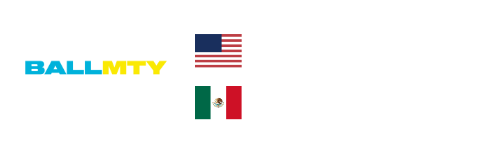
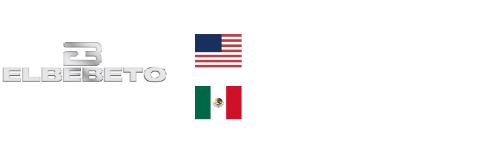
cambios

Changed region(s): [[0.0, 0.2778, 0.33, 0.5833]]

diff --git a/index.html b/index.html
@@ -1,7 +1,7 @@
 <!DOCTYPE html><html lang="en-US" class="no-js"><head><link media="all" href="css/autoptimize_5331a4c1ee888757bae4b8dc75ed1122.css" rel="stylesheet">
     <meta charset="UTF-8">
     <meta name="viewport" content="width=device-width, initial-scale=1">
-    <title>3BALLMTY</title>
+    <title>EL BEBETO</title>
     <link rel="profile" href="http://gmpg.org/xfn/11">
         <script async="" src="js/gtm.js"></script><script type="application/javascript">
 window.dataLayer = window.dataLayer || []
@@ -286,7 +286,7 @@ j=d.createElement(s),dl=l!='dataLayer'?'&l='+l:'';j.async=true;j.src=
 
 
 <style id="wp-dynamic-css-grand-royal-layout-multipage-header-skin-styles-inline-css" type="text/css">
-  .site-header, .site-header .slide-menu-gr-container { background-color: #27004d; }  @media only screen and (min-width: 50em){ .site-header.site-header-transparent .slide-menu-gr-container { background-color: transparent; } }  .site-header.site-header-transparent #slide-menu-gr.docked{ background-color: #ffffff; }  .site-header .slide-menu-gr-container { font-family: Montserrat; font-weight: 700; }  .site-header #menu-main a { color: #ffffff; fill: #f6402d; } .site-header #menu-social a { color: #FFFFFF; fill: #FFFFFF; } .site-header #menu-main a:hover { color: #000000; fill: #000000; } .site-header #menu-social a:hover { color: #f6402d; fill: #f6402d; }    .site-header #menu-main .menu-item-social a { fill: #FFFFFF; } .site-header #menu-main .menu-item-social a svg.h, .site-header #menu-main .menu-item-social a img { height: 20px; max-width: 20px; } .site-header #menu-main .menu-item-social a svg.w { width: 20px; max-height: 20px; }  .menu-social-container li, .menu-social-container li a, .menu-social-container li a .icon, .umggr-fixed-social-menu-container li, .umggr-fixed-social-menu-container li a, .umggr-fixed-social-menu-container li .icon { font-size: 20px; color: #FFFFFF; } .umggr-fixed-social-menu-container.umggr-fixed-social-menu-top-left   .umggr-fixed-social-menu   li.community   .community-container   a.community-members-phone-number, .umggr-fixed-social-menu-container.umggr-fixed-social-menu-bottom-left   .umggr-fixed-social-menu   li.community   .community-container   a.community-members-phone-number, .umggr-fixed-social-menu-container.umggr-fixed-social-menu-middle-left   .umggr-fixed-social-menu   li.community   .community-container   a.community-members-phone-number { left: 20px; } .umggr-fixed-social-menu-container.umggr-fixed-social-menu-top-right   .umggr-fixed-social-menu   li.community   .community-container   a.community-members-phone-number, .umggr-fixed-social-menu-container.umggr-fixed-social-menu-bottom-right   .umggr-fixed-social-menu   li.community   .community-container   a.community-members-phone-number, .umggr-fixed-social-menu-container.umggr-fixed-social-menu-middle-right   .umggr-fixed-social-menu   li.community   .community-container   a.community-members-phone-number { right: 20px; }  .site-header #menu-main .active-page a { color: #000000; }  .site-header .newsletter-header svg { fill: #FFFFFF; } .site-header .mobile-nav-header span { background-color: #ffffff; }  @media screen and (min-width: 800px) { .site-header.site-header-transparent #menu-main a { color: #ffffff; }   .site-header.site-header-transparent #menu-main a:hover { color: #000000; }    .site-header.site-header-transparent #menu-main .active-page a { color: #000000; } }  #slide-menu-gr-peakaboo .slide-menu-gr-child, #slide-menu-gr-filter .slide-menu-gr-filter-toggle, #slide-menu-gr-filter .slide-menu-gr-peakaboo { background-color: #515151; } #slide-menu-gr-peakaboo .slide-menu-gr-child.slide-menu-transparent { background-color: transparent; }  #slide-menu-gr-peakaboo .slide-menu-gr-child .slide-menu-gr-item a, #slide-menu-gr-filter .slide-menu-gr-peakaboo .slide-menu-gr-item a { color: #FFFFFF; } #slide-menu-gr-peakaboo .slide-menu-gr-child .slide-menu-gr-item a svg, #slide-menu-gr-filter .slide-menu-gr-peakaboo .slide-menu-gr-item a svg { fill: #FFFFFF; } #slide-menu-gr-peakaboo .slide-menu-gr-item button.ae-follow-spotify-button { background-color: #FFFFFF; }  @media screen and (min-width: 800px) { #slide-menu-gr-peakaboo     .slide-menu-gr-child.slide-menu-transparent     .slide-menu-gr-item     a,   #slide-menu-gr-filter     .slide-menu-gr-peakaboo     .slide-menu-transparent     .slide-menu-gr-item     a { color: #ffffff; }   #slide-menu-gr-peakaboo     .slide-menu-gr-child.slide-menu-transparent     .slide-menu-gr-item     a svg,   #slide-menu-gr-filter     .slide-menu-gr-peakaboo     .slide-menu-transparent     .slide-menu-gr-item       a svg { fill: #ffffff; } }  #slide-menu-gr-filter .slide-menu-gr-filter-toggle { color: #FFFFFF; background-color: #000000; }  #slide-menu-gr-filter .slide-menu-gr-filter-toggle:hover { color: #515151; } #slide-menu-gr-peakaboo .slide-menu-gr-child .slide-menu-gr-item a, #slide-menu-gr-filter .slide-menu-gr-peakaboo .slide-menu-gr-item a { color: #FFFFFF; }  #slide-menu-gr-peakaboo .slide-menu-gr-child .slide-menu-gr-item a:hover, #slide-menu-gr-filter .slide-menu-gr-peakaboo .slide-menu-gr-item a:hover { opacity: 0.6; filter: alpha(opacity=60); color: #f6402d; }  .slide-menu-gr-container .slide-menu-gr-parent .slide-menu-gr-item a:hover { color: #FFFFFF; } .site-header-transparent   .slide-menu-gr-container   .slide-menu-gr-parent   .slide-menu-gr-item   a:hover { color: #FFFFFF; } .slide-menu-gr-container   .slide-menu-gr-parent   .slide-menu-gr-item.with-children   .slide-menu-gr-child   .slide-menu-gr-item   a { color: #FFFFFF; opacity: 0.6; filter: alpha(opacity=60); }  @media screen and (min-width: 800px) { .site-header-transparent     .slide-menu-gr-container     .slide-menu-gr-parent     .slide-menu-gr-item     a:hover,   .slide-menu-gr-container     .slide-menu-gr-parent     .slide-menu-gr-item.with-children     .slide-menu-gr-child.slide-menu-transparent     .slide-menu-gr-item     a { color: #ffffff; }   .slide-menu-gr-container     .slide-menu-gr-parent     .slide-menu-gr-item.with-children     .slide-menu-gr-child     .slide-menu-gr-item     a { color: #f6402d; opacity: 1; filter: alpha(opacity=100); } }  #slide-menu-gr-peakaboo   .slide-menu-gr-child.slide-menu-transparent   .slide-menu-gr-item   a:hover, #slide-menu-gr-filter   .slide-menu-gr-peakaboo   .slide-menu-transparent   .slide-menu-gr-item   a:hover { color: #000000; opacity: 1; filter: alpha(opacity=100); }  .page-navigation.bar .back-button { background-color: #000000; } .page-navigation.bar .back-button polyline { stroke: #FFFFFF; }  .site-header .header-mailing-list .ae-cform-container a { background-color: #515151; color: #FFFFFF; }  .site-header .header-mailing-list .ae-cform-container a:hover { color: #FFFFFF; opacity: 0.6; filter: alpha(opacity=60); } #umggr-loader { background-color: #000000; } #umggr-splash { background-color: #000000; } .close-modal, .splash-mute-unmute { background-color: #515151; } .splash-mute-unmute a { color: #FFFFFF; }    
+  .site-header, .site-header .slide-menu-gr-container { background-color: #d5441a; }  @media only screen and (min-width: 50em){ .site-header.site-header-transparent .slide-menu-gr-container { background-color: transparent; } }  .site-header.site-header-transparent #slide-menu-gr.docked{ background-color: #ffffff; }  .site-header .slide-menu-gr-container { font-family: Montserrat; font-weight: 700; }  .site-header #menu-main a { color: #ffffff; fill: #f6402d; } .site-header #menu-social a { color: #FFFFFF; fill: #FFFFFF; } .site-header #menu-main a:hover { color: #000000; fill: #000000; } .site-header #menu-social a:hover { color: #f6402d; fill: #f6402d; }    .site-header #menu-main .menu-item-social a { fill: #FFFFFF; } .site-header #menu-main .menu-item-social a svg.h, .site-header #menu-main .menu-item-social a img { height: 20px; max-width: 20px; } .site-header #menu-main .menu-item-social a svg.w { width: 20px; max-height: 20px; }  .menu-social-container li, .menu-social-container li a, .menu-social-container li a .icon, .umggr-fixed-social-menu-container li, .umggr-fixed-social-menu-container li a, .umggr-fixed-social-menu-container li .icon { font-size: 20px; color: #FFFFFF; } .umggr-fixed-social-menu-container.umggr-fixed-social-menu-top-left   .umggr-fixed-social-menu   li.community   .community-container   a.community-members-phone-number, .umggr-fixed-social-menu-container.umggr-fixed-social-menu-bottom-left   .umggr-fixed-social-menu   li.community   .community-container   a.community-members-phone-number, .umggr-fixed-social-menu-container.umggr-fixed-social-menu-middle-left   .umggr-fixed-social-menu   li.community   .community-container   a.community-members-phone-number { left: 20px; } .umggr-fixed-social-menu-container.umggr-fixed-social-menu-top-right   .umggr-fixed-social-menu   li.community   .community-container   a.community-members-phone-number, .umggr-fixed-social-menu-container.umggr-fixed-social-menu-bottom-right   .umggr-fixed-social-menu   li.community   .community-container   a.community-members-phone-number, .umggr-fixed-social-menu-container.umggr-fixed-social-menu-middle-right   .umggr-fixed-social-menu   li.community   .community-container   a.community-members-phone-number { right: 20px; }  .site-header #menu-main .active-page a { color: #000000; }  .site-header .newsletter-header svg { fill: #FFFFFF; } .site-header .mobile-nav-header span { background-color: #ffffff; }  @media screen and (min-width: 800px) { .site-header.site-header-transparent #menu-main a { color: #ffffff; }   .site-header.site-header-transparent #menu-main a:hover { color: #000000; }    .site-header.site-header-transparent #menu-main .active-page a { color: #000000; } }  #slide-menu-gr-peakaboo .slide-menu-gr-child, #slide-menu-gr-filter .slide-menu-gr-filter-toggle, #slide-menu-gr-filter .slide-menu-gr-peakaboo { background-color: #515151; } #slide-menu-gr-peakaboo .slide-menu-gr-child.slide-menu-transparent { background-color: transparent; }  #slide-menu-gr-peakaboo .slide-menu-gr-child .slide-menu-gr-item a, #slide-menu-gr-filter .slide-menu-gr-peakaboo .slide-menu-gr-item a { color: #FFFFFF; } #slide-menu-gr-peakaboo .slide-menu-gr-child .slide-menu-gr-item a svg, #slide-menu-gr-filter .slide-menu-gr-peakaboo .slide-menu-gr-item a svg { fill: #FFFFFF; } #slide-menu-gr-peakaboo .slide-menu-gr-item button.ae-follow-spotify-button { background-color: #FFFFFF; }  @media screen and (min-width: 800px) { #slide-menu-gr-peakaboo     .slide-menu-gr-child.slide-menu-transparent     .slide-menu-gr-item     a,   #slide-menu-gr-filter     .slide-menu-gr-peakaboo     .slide-menu-transparent     .slide-menu-gr-item     a { color: #ffffff; }   #slide-menu-gr-peakaboo     .slide-menu-gr-child.slide-menu-transparent     .slide-menu-gr-item     a svg,   #slide-menu-gr-filter     .slide-menu-gr-peakaboo     .slide-menu-transparent     .slide-menu-gr-item       a svg { fill: #ffffff; } }  #slide-menu-gr-filter .slide-menu-gr-filter-toggle { color: #FFFFFF; background-color: #000000; }  #slide-menu-gr-filter .slide-menu-gr-filter-toggle:hover { color: #515151; } #slide-menu-gr-peakaboo .slide-menu-gr-child .slide-menu-gr-item a, #slide-menu-gr-filter .slide-menu-gr-peakaboo .slide-menu-gr-item a { color: #FFFFFF; }  #slide-menu-gr-peakaboo .slide-menu-gr-child .slide-menu-gr-item a:hover, #slide-menu-gr-filter .slide-menu-gr-peakaboo .slide-menu-gr-item a:hover { opacity: 0.6; filter: alpha(opacity=60); color: #f6402d; }  .slide-menu-gr-container .slide-menu-gr-parent .slide-menu-gr-item a:hover { color: #FFFFFF; } .site-header-transparent   .slide-menu-gr-container   .slide-menu-gr-parent   .slide-menu-gr-item   a:hover { color: #FFFFFF; } .slide-menu-gr-container   .slide-menu-gr-parent   .slide-menu-gr-item.with-children   .slide-menu-gr-child   .slide-menu-gr-item   a { color: #FFFFFF; opacity: 0.6; filter: alpha(opacity=60); }  @media screen and (min-width: 800px) { .site-header-transparent     .slide-menu-gr-container     .slide-menu-gr-parent     .slide-menu-gr-item     a:hover,   .slide-menu-gr-container     .slide-menu-gr-parent     .slide-menu-gr-item.with-children     .slide-menu-gr-child.slide-menu-transparent     .slide-menu-gr-item     a { color: #ffffff; }   .slide-menu-gr-container     .slide-menu-gr-parent     .slide-menu-gr-item.with-children     .slide-menu-gr-child     .slide-menu-gr-item     a { color: #f6402d; opacity: 1; filter: alpha(opacity=100); } }  #slide-menu-gr-peakaboo   .slide-menu-gr-child.slide-menu-transparent   .slide-menu-gr-item   a:hover, #slide-menu-gr-filter   .slide-menu-gr-peakaboo   .slide-menu-transparent   .slide-menu-gr-item   a:hover { color: #000000; opacity: 1; filter: alpha(opacity=100); }  .page-navigation.bar .back-button { background-color: #000000; } .page-navigation.bar .back-button polyline { stroke: #FFFFFF; }  .site-header .header-mailing-list .ae-cform-container a { background-color: #515151; color: #FFFFFF; }  .site-header .header-mailing-list .ae-cform-container a:hover { color: #FFFFFF; opacity: 0.6; filter: alpha(opacity=60); } #umggr-loader { background-color: #000000; } #umggr-splash { background-color: #000000; } .close-modal, .splash-mute-unmute { background-color: #515151; } .splash-mute-unmute a { color: #FFFFFF; }    
 </style>
 <style id="wp-dynamic-css-grand-royal-layout-multipage-footer-skin-styles-inline-css" type="text/css">
   #site-footer .footer-links { background-color: #00000000; color: #ffffff; }  #site-footer .footer-legal { background-color: rgba(238,238,238,0); }  #site-footer .footer-legal a { color: #ffffff; }  #site-footer .footer-legal a:hover { opacity: 0.6; filter: alpha(opacity=60); color: #ffffff; }  #site-footer .footer-social-menu a { color: #ffffff; fill: #ffffff; } #site-footer .footer-social-menu button.ae-follow-spotify-button { background-color: #ffffff; } #site-footer .footer-social-menu a svg .background { fill: #000000; }  #site-footer .footer-social-menu a:hover { color: #f6402d; fill: #f6402d; } #site-footer .footer-social-menu button.ae-follow-spotify-button { background-color: #FFFFFF; } #site-footer .footer-social-menu button.ae-follow-spotify-button:hover { background-color: #f6402d; }  #site-footer .footer-social-menu li svg.h { height: 20px; max-width: 20px; } #site-footer .footer-social-menu li svg.w { width: 20px; max-height: 20px; } #site-footer .footer-social-menu li .icon.fa { font-size: 20px; } #site-footer button.ae-follow-spotify-button { background-color: #FFFFFF; }  #site-footer .footer-social-menu button.ae-follow-spotify-button { background-color: #FFFFFF; } #site-footer .footer-social-menu button.ae-follow-spotify-button:hover { background-color: #FFFFFF; }  #site-footer .footer-links .ae-cform-container { color: #ffffff; }  #site-footer .footer-links .ae-cform-container a { background-color: #515151; color: #FFFFFF; }  #site-footer .footer-links .ae-cform-container a:hover { color: #FFFFFF; opacity: 0.6; filter: alpha(opacity=60); }  #site-footer .mobile-spacer { background-color: #000000; }  #site-footer [id^="menu-social"] .menu-item a { color: #FFFFFF; fill: #FFFFFF; }  #site-footer [id^="menu-social"] .menu-item a:hover { color: #f6402d; fill: #f6402d; }  #site-footer [id^="menu-social"] a .icon.fa { color: #FFFFFF; fill: #FFFFFF; }  #site-footer [id^="menu-social"] a .icon.fa:hover { color: #f6402d; fill: #f6402d; }  #docked-menu-gr { background-color: #515151; } #docked-menu-gr ul li svg { fill: #FFFFFF; }   
@@ -336,17 +336,13 @@ var UMGGR_Deeplink_Module = {};
 /* ]]> */
 </script>
 <script type="text/javascript" src="js/deeplink.js" id="umggr-deeplink-js"></script>
-<script type="text/javascript" id="umggr-cookie-positioner-js-extra">
+
 /* <![CDATA[ */
-var UMGGR_Cookie_Positioner_Module = {};
 /* ]]> */
 </script>
-<script type="text/javascript" src="js/cookie-positioner.js" id="umggr-cookie-positioner-js"></script>
 <script type="text/javascript" src="js/isotope.pkgd.min.js" id="jqisotope-js"></script>
 <script type="text/javascript" id="umggr-modal-js-js-extra">
-/* <![CDATA[ */
-var UMGGR_Splash_Shortcode = {"is_home":"1","disable_cookies":"1","autoplay_setting":"null","video_format":"mp4"};
-/* ]]> */
+
 </script>
 <script type="text/javascript" src="js/splash.js" id="umggr-modal-js-js"></script>
 <script type="text/javascript" src="js/search.js" id="umggr-search-js"></script>
@@ -384,11 +380,12 @@ var UMGAALWP = {"debug_enabled":"0","plugins":{"ae_connect":true,"umg_ecrm":true
 <!-- -->
 
 <script type="text/javascript">
-    window.dir = 'https://3ballmty.mx/';
-</script><link rel="icon" href="images/ico-umle-150x150.gif" sizes="32x32">
-<link rel="icon" href="images/ico-umle-300x300.gif" sizes="192x192">
-<link rel="apple-touch-icon" href="images/ico-umle-300x300.gif">
-<meta name="msapplication-TileImage" content="https://https://3ballmty.mx///files/2022/09/ico-umle-300x300.gif">
+    window.dir = 'https://elbebeto.com.mx/';
+</script>
+<link rel="apple-touch-icon" sizes="180x180" href="/images/favicon_io/apple-touch-icon.png">
+<link rel="icon" type="image/png" sizes="32x32" href="/images/favicon_io/favicon-32x32.png">
+<link rel="icon" type="image/png" sizes="16x16" href="/images/favicon_io/favicon-16x16.png">
+<link rel="manifest" href="/site.webmanifest">
 </head>
 
 <body class="home page-template-default page page-id-5386 wp-embed-responsive page-home umggr-page5386">
@@ -483,133 +480,102 @@ height='0' width='0' style='display:none;visibility:hidden'></iframe></noscript>
     <section class="promo home" data-headertype="slickslider">
         <div class="slider slider-for">
                 <div class="node-banner">
-                    <div class="banner-image hide-for-small-only dsk" style="background-image: url(images/Banner-3BALLMTY.png   )"></div>
-                        <div class="banner-image show-for-small-only mob" style="background-image: url(images/Banner-3BallMTY-M.png)"></div>
+                    <div class="banner-image hide-for-small-only dsk" style="background-image: url(images/Banner-BEBETO.png)"></div>
+                        <div class="banner-image show-for-small-only mob" style="background-image: url(images/Banner-Bebeto-M.png)"></div>
                 </div>        
         </div>
     </section>
 
-    <section id="biografia" class="roster home">
+    <section class="roster home">
         <div>
             <article class="article-news">
                 <div class="article-content">
                     
                         <div class="spa">
-                            <h1>3BALLMTY</h1>
+                            <h1>El Bebeto</h1>
                             <br>
-                            <h2>Es un colectivo de DJs formado por DJ Otto, Sheeqo BEat y DJ Erik Rincón que vienen a revolucionar con su tribal guarachero la escena musical latina, conquistando escenarios en todo el continente Americano y Europeo.</h2>
-                            <h2>Con sus mezclas electrónicas han trabajado con artistas como Shakira, Paulina Rubio, DaddyYankee, Don Omar, Joweel y Randy, Jking & Maximan, Becky G, Belinda, Gerardo Ortiz, El Bebeto, Bomba Estereo, por mencionar algunos otros.</h2>
-                            <h2>Su álbum "Inténtalo" les dio disco de oro en México, disco de platino en Estados Unidos y Centroamérica.</h2>
-                            <h2>Ahora, su legado se suma al catálogo de Latin Power Music, promwtiendo colaboraciones y éxitos aún por venir.</h2>
-                            <BR></BR>
-                            <h5>PREMIOS Y NOMINACIONES:</h5>
-                            <h2>Su album "inténtalo" les dio:</h2>
-                            <h2><li>Disco de Oro en México</li></h2>
-                            <h2><li>Disco de platino en Estados Unidos</li></h2>
-                            <h2><li>Disco de Platino en Centroamérica</li></h2>
-                            <h2><li>Marzo 2012 Premio ASCAP</li></h2>
-                            <h2><li>Octubre 2012 9 Premios Billboard de la música regional mexicana</li></h2>
-                            <h2><li>Octubre 2012 Premio Bandamax</li></h2>
-                            <h2><li>Noviembre 2012 Premio Latin Grammy</li></h2>
-                            <h2><li>Febrero 2013 2 Premios Lo nuestro</li></h2>
-                            <h2><li>Abril 2013 2 premios billboard a la música</li></h2>
-                            <h2><li>Mayo 2013 3 premios oye!</li></h2>
-                            <h2><li>Octubre 2013 premio billboard de la música regional mexicana</li></h2>
-                            <h2><li>Febrero 2014 premios lo nuestro</li></h2>
+                            
+                            <h2>EL BEBETO nace en Guasave, Sinaloa. En el 2010 graba su primer disco como solista titulado “QUIERO QUE SEAS TÚ”, y participa junto a 3BALLMTY en los temas “Inténtalo” y “De las 12 a las 12”, pertenecientes al disco de los DJ’S. En el 2012 lanza “ESE SOY YO” con el éxito “Lo legal” y en el 2014 “EN TU MIRADA” con: “Lo más interesante”, “No fue necesario” y “No te creas tan importante”. En el 2015, estrena su primer disco con Mariachi titulado “ETERNAMENTE MEXICANO” del que promueve “Cuando tú me besas” y “Besos nuevos”. Este sería el despunte de su carrera dentro de este género. Ha sido nominado al Premio Lo Nuestro. Ganador de varios Premios Billboard de la Música Regional Mexicana. Nominado a Premios Billboard de la Música Latina. Nominado a Premios Bandamax, Premios de la Calle y Latin Grammy.</h2>
+                            <br>
+                            <h2>En Octubre del 2024, “AMOR RANCHERO” es el nuevo álbum de EL BEBETO. Un disco que incluye 12 melodías, algunas de ellas con el acompañamiento de Mariachi, Banda y además del toque sierreño y la incursión del acordeón. Este álbum incluye 2 duetos, uno de ellos junto a Luciano Pereyra en el tema “Si no es muy tarde”, original de Luciano, y “¿Qué vas a decirle?”, al lado del cantante colombiano Pipe Bueno. El focus track que se desprende de este proyecto es el tema “Cuidado”, una balada estilo norteño banda.</h2>
                             <br>
                             <br>
-                            <!--Seccion de estadistica-->
-                            <section id="estadisticas">
-                                <h1>Redes Sociales y Plataformas Digitales</h1>
+                            <br>
+                            <h1>Redes Sociales y Plataformas Digitales</h1>
                             <br>
                             <br>
                             <div class="container">
                                 <div class="card">
                                   <i class="fab fa-facebook"></i>
-                                  <p class="counter" name="facebook">851 K</p>
+                                  <p class="counter" name="facebook">7,9 mill.</p>
                                   <p class="label">Facebook Followers</p>
                                 </div>
                                 <div class="card">
                                   <i class="fab fa-instagram"></i>
-                                  <p class="counter" name="instagram">52,1 K</p>
+                                  <p class="counter" name="instagram">1,2 mill.</p>
                                   <p class="label">Instagram Followers</p>
                                 </div>
                                 <div class="card">
                                   <i class="fab fa-spotify"></i>
-                                  <p class="counter" name="spotify">1,540,009</p>
+                                  <p class="counter" name="spotify">4,710,667</p>
                                   <p class="label">Spotify Escuchas Mensuales</p>
                                 </div>
                                 <div class="card">
                                     <i class="fab fa-x-twitter"></i>
-                                    <p class="counter" name="twitter">163.4 K</p>
+                                    <p class="counter" name="twitter">1 mill.</p>
                                     <p class="label">X Followers</p>
                                   </div>
                                   <div class="card">
                                     <i class="fab fa-tiktok"></i>
-                                    <p class="counter" name="tiktok">173</p>
+                                    <p class="counter" name="tiktok">69,7 K</p>
                                     <p class="label">TikTok Followers</p>
                                   </div>
                                   <div class="card">
                                     <i class="fab fa-youtube"></i>
-                                    <p class="counter" name="youtube">599 K</p>
+                                    <p class="counter" name="youtube">1,81 mill.</p>
                                     <p class="label">Youtube Suscriptores</p>
                                   </div>
                             </div>
                             <br>
                             <br>
                             <br>
+                            <h1>REDES</h1>
                             <br>
-                            </section>
-                            
-                            
-                            <!--Seccion de redes-->
-                            <section id="redes">
-                                <h1>REDES</h1>
-                                    <br>
-                                    <ul class="card-social-artist">
-                                        <li><a href="https://www.facebook.com/3BallMTY" target="_blank" title="visit facebook"><i class="fa-brands fa-facebook"></i></a></li>
-                                        <li><a href="https://www.instagram.com/3ballmtyoficial/" target="_blank" title="visit instagram"><i class="fa-brands fa-instagram"></i></a></li>
-                                        <li><a href="https://www.tiktok.com/@3ballmtyoficial" target="_blank" title="visit tiktok"><i class="fab fa-tiktok"></i></a></li>
-                                        <li><a href="https://twitter.com/3BallMTY" target="_blank" title="visit twitter"><i class="fa-brands fa-x-twitter"></i></a></li>
-                                        <li><a href="https://open.spotify.com/intl-es/artist/1MLs9allBZrajb5Dc4146L?si=J9Ar1Rd7QaOhmgA027JVDA&nd=1&dlsi=6b52f65a9da44ff3" target="_blank" title="visit spotify"><i class="fa fa-spotify"></i></a></li>
-                                        <li><a href="https://www.youtube.com/@3ballmtyOficial" target="_blank" title="visit youtube"><i class="fa fa-youtube"></i></a></li>
-                                        <li><a href="https://music.apple.com/mx/artist/3ballmty/476046258" target="_blank" title="visit apple_music"><i class="fa fa-music"></i></a></li>
-                                    </ul>
-                                    <br>
-                                    <br>
-                                    <br>
-                                    <section id="musica">
-
-                                        <h1>ESCÚCHANOS</h1>
-                                    <br>
-                            </section>
-                            
+                            <ul class="card-social-artist">
+                                <li><a href="https://www.facebook.com/elbebeto.com.mx" target="_blank" title="visit facebook"><i class="fa-brands fa-facebook"></i></a></li>
+                                <li><a href="https://www.instagram.com/bebetooficial/" target="_blank" title="visit instagram"><i class="fa-brands fa-instagram"></i></a></li>
+                                <li><a href="https://www.tiktok.com/@elbebeto" target="_blank" title="visit tiktok"><i class="fab fa-tiktok"></i></a></li>
+                                <li><a href="https://twitter.com/El_Bebeto" target="_blank" title="visit twitter"><i class="fa-brands fa-x-twitter"></i></a></li>
+                                <li><a href="https://open.spotify.com/intl-es/artist/1YhMWppPt9RVODKD1KCs7W?si=VyM_wi9dTy-TqT6Al2gYrA" target="_blank" title="visit spotify"><i class="fa fa-spotify"></i></a></li>
+                                <li><a href="https://www.youtube.com/@ElBebetoMXOficial" target="_blank" title="visit youtube"><i class="fa fa-youtube"></i></a></li>
+                                <li><a href="https://music.apple.com/mx/artist/el-bebeto/476046261" target="_blank" title="visit apple_music"><i class="fa fa-music"></i></a></li>
+                            </ul>
+                            <br>
+                            <br>
+                            <br>
+                            <h1>ESCÚCHANOS</h1>
+                            <br>
                         </div>
                     
                         <div class="centered">
                             <div style="left: 0; width: 70%; height: 750px; position: relative;">
-                                <iframe src="https://open.spotify.com/embed/artist/1MLs9allBZrajb5Dc4146L?utm_source=oembed" style="top: 0; left: 0; width: 100%; height: 100%; position: absolute; border: 0;" allowfullscreen allow="clipboard-write; encrypted-media; fullscreen; picture-in-picture;"></iframe>
+                                <iframe src="https://open.spotify.com/embed/artist/1YhMWppPt9RVODKD1KCs7W?utm_source=oembed" style="top: 0; left: 0; width: 100%; height: 100%; position: absolute; border: 0;" allowfullscreen allow="clipboard-write; encrypted-media; fullscreen; picture-in-picture;"></iframe>
                             </div>
                         </div>
-                        <section id="videos">
-                            <div class="youtube-box">
-                                <br>
-                                <br>
-                                <h1>VIDEOS</h1>
-                                <div class="youtube-container">
-                                    <iframe src="https://www.youtube.com/embed/LRYNWfJzfVE?rel=0&cc_load_policy=1" allowfullscreen></iframe>
-                                </div>
-                                <br>
-                                <br>
-                                <div class="youtube-container">
-                                    <iframe src="https://www.youtube.com/embed/BjLKhuTu5ac?rel=0" allowfullscreen></iframe>
-                                </div>
-                            </div> 
-                        </section>
+                        <div class="youtube-box">
+                            <br>
+                            <br>
+                            <h1>VIDEOS</h1>
+                            <div class="youtube-container">
+                                <iframe src="https://www.youtube.com/embed/P4WcUbPfiTk?rel=0" allowfullscreen></iframe>
+                            </div>
+                            <br>
+                            <br>
+                            <div class="youtube-container">
+                                <iframe src="https://www.youtube.com/embed/0TA9biHFtxE?rel=0" allowfullscreen></iframe>
+                            </div>
+                        </div> 
                     </div>
-
-                                    </section>
-                                    
             </article>
             <br>
             <br>
@@ -635,7 +601,7 @@ height='0' width='0' style='display:none;visibility:hidden'></iframe></noscript>
     </div>
     <div class="footer-legal">
         <div class="flex flex-wrap">
-          <div class="copyright "><span> © <span class="copyright-date">2024 </span> 3BALLMTY</a></span></div>
+          <div class="copyright "><span> © <span class="copyright-date">2024 </span> EL BEBETO</a></span></div>
                   
         </div>
     </div>
@@ -700,12 +666,8 @@ var umggr_multipage_home_vars = {"ajaxurl":"https:\/\/www.universalmusica.com\/w
 </script>
 <script type="text/javascript" src="js/home.js" id="homejs-js"></script>
 <script type="text/javascript" id="main-js-extra">
-/* <![CDATA[ */
-var main_vars = {"ajaxurl":"https:\/\/www.universalmusica.com\/wp-admin\/admin-ajax.php","theme_path":"https:\/\/www.universalmusica.com\/wp-content\/themes\/umg-grand-royal-theme","disable_cookies":"1","navBarTransparent":{"set":"0","backgroundColor":null},"mobile_video_settings":{"mobile_video_override":false,"mobile_video_image_setting":"as_desktop","mobile_video_static_image":null,"mobile_video_static_image_alt_text":null}};
-/* ]]> */
 </script>
 <script type="text/javascript" src="js/main.js" id="main-js"></script>
-<script type="text/javascript" src="js/cookie-styles.js" id="umggr-cookie-styles-js"></script>
 <script type="text/javascript" id="umgecrm-frontend-script-js-extra">
 /* <![CDATA[ */
 var UMGECRM = {"ajaxurl":"https:\/\/www.universalmusica.com\/wp-admin\/admin-ajax.php","analytics_tracking_delegate":"trackingDelegate.UMGECRM","sub_data":{"adhoc":[],"ecrm":"umgapi","ae":{"1":{"subs":{"1":{"optin_id":1,"optin-type":"email","label":"Get email updates from Universal Music Latino","casl-label":"Get email updates from Universal Music Latino","umgapi-optin-implied-optin-enabled":true,"vv-cf-optin-implied-optin-enabled":true,"umgapi-form-id":"-NBOV6kKD1Ep7VMdNIdX","umgapi-optin-ids":"323933","umgapi-sms-textwords":"","vv-cf-optin-campaign-id":null,"vv-cf-optin-similar-artists-enabled":false,"umgapi-sms-countries":[],"umgapi-lytics-env":null,"umgapi-optin-artist-name":"","casl-enabled":true,"optin_ifbv2_key":null,"optin_ifbv2_obj":null,"umgapi-optin-ifbv2-key":"","umgapi-optin-ifbv2-obj":""}}}}},"lytics_env":"none"};

diff --git a/css/autoptimize_5331a4c1ee888757bae4b8dc75ed1122.css b/css/autoptimize_5331a4c1ee888757bae4b8dc75ed1122.css
@@ -16875,7 +16875,7 @@ img {
 }
 
 #site-footer {
-    background: url(../images/background.png)center #5a007b;
+    background: url(../images/background.png)center #d54608;
     display: flex;
     flex-direction: column;
     align-items: center;
@@ -17208,14 +17208,14 @@ img {
 #site-header #slide-menu-gr .slide-menu-gr-parent>.slide-menu-gr-item a:after {
     width: 0;
     height: 1px;
-    background: linear-gradient(180deg,#ee33f4 0,#ba63f9 100%);
+    background: linear-gradient(180deg,#bc4e04 0,#eb8407 100%);
     display: block;
     transition: all .3s ease;
     content: ""
 }
 
 #site-header #slide-menu-gr .slide-menu-gr-parent>.slide-menu-gr-item a:hover,#site-header #slide-menu-gr .slide-menu-gr-parent>.slide-menu-gr-item.current-menu-item a,.single-post #site-header #slide-menu-gr .slide-menu-gr-parent>.slide-menu-gr-item a[href*="news/"] {
-    background: linear-gradient(180deg,#ee33f4 0,#ba63f9 100%);
+    background: linear-gradient(180deg,#bc4e04 0,#eb8407 100%);
     -webkit-background-clip: text;
     -webkit-text-fill-color: transparent;
     background-clip: text;
@@ -17277,7 +17277,7 @@ img {
 #site-header .toggle-container .toggle-switch {
     width: 40px;
     height: 18px;
-    background: linear-gradient(180deg,#e04179 0,#b233f4 100%);
+    background: linear-gradient(180deg,#000000 0,#000000 100%);
     border-radius: 50px;
     position: relative
 }
@@ -17306,7 +17306,7 @@ img {
 }
 
 #site-header .toggle-container.light-mode .toggle-switch {
-    background: linear-gradient(180deg,#b233f4 0,#a1306c 100%)
+    background: linear-gradient(180deg,#f43333 0,#a13030 100%)
 }
 
 #site-header .toggle-container.light-mode .toggle-switch:before {
